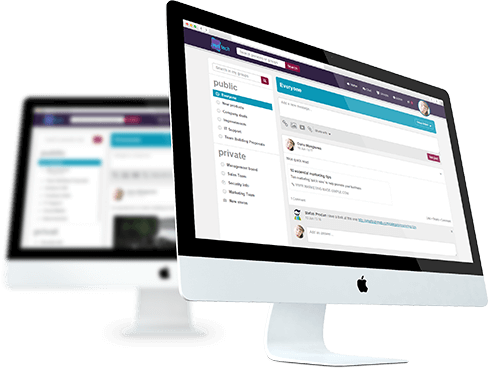
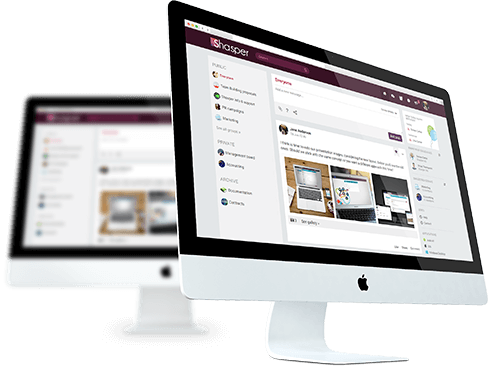
replaced veritechesn with shasper

diff --git a/index.html b/index.html
@@ -239,10 +239,10 @@
 		
 		<div class="projects single-project" id="esn">		
 			<div class="single-project-item">
-				<h2>Veritech ESN</h2>
+				<h2>Shasper</h2>
 				<h4>Experience team work at its full potential </h4>
-				<p><strong>Veritech ESN</strong> is a light and easy to use <strong>Enterprise Social Network</strong>, designed to work on any device, suitable for any kind of team and, more importantly, to yours.</p>
-				<p class="call-to-action"><a href="http://veritechesn.com/" class="btn btn-info" title="Veritech ESN">Check it out!</a></p>
+				<p><strong>Shasper</strong> is a light and easy to use <strong>Enterprise Social Network</strong>, designed to work on any device, suitable for any kind of team and, more importantly, to yours.</p>
+				<p class="call-to-action"><a href="http://shasper.com/" class="btn btn-info" title="Shasper">Check it out!</a></p>
 			</div>
 		</div>
 		
